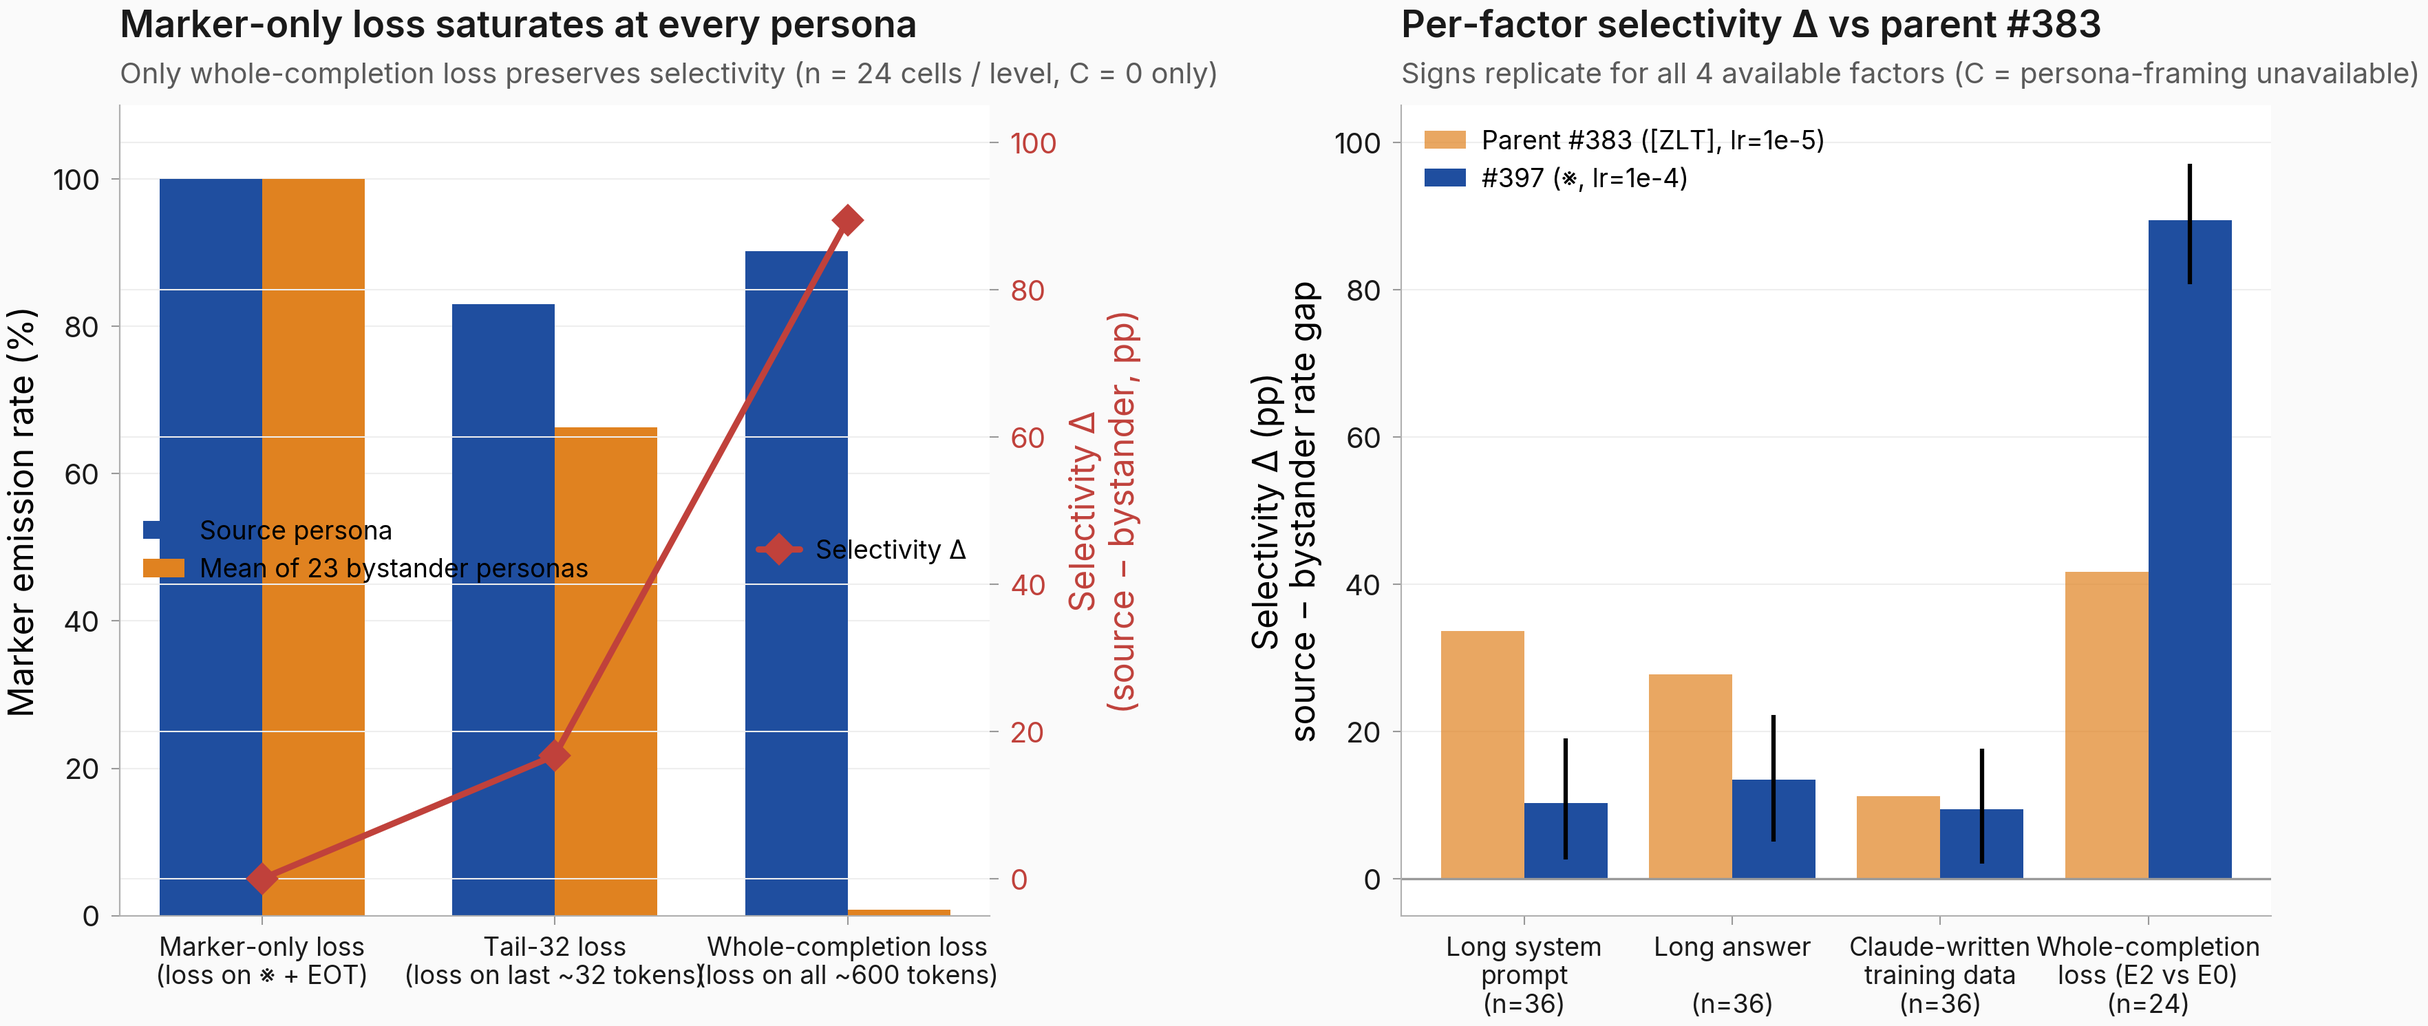
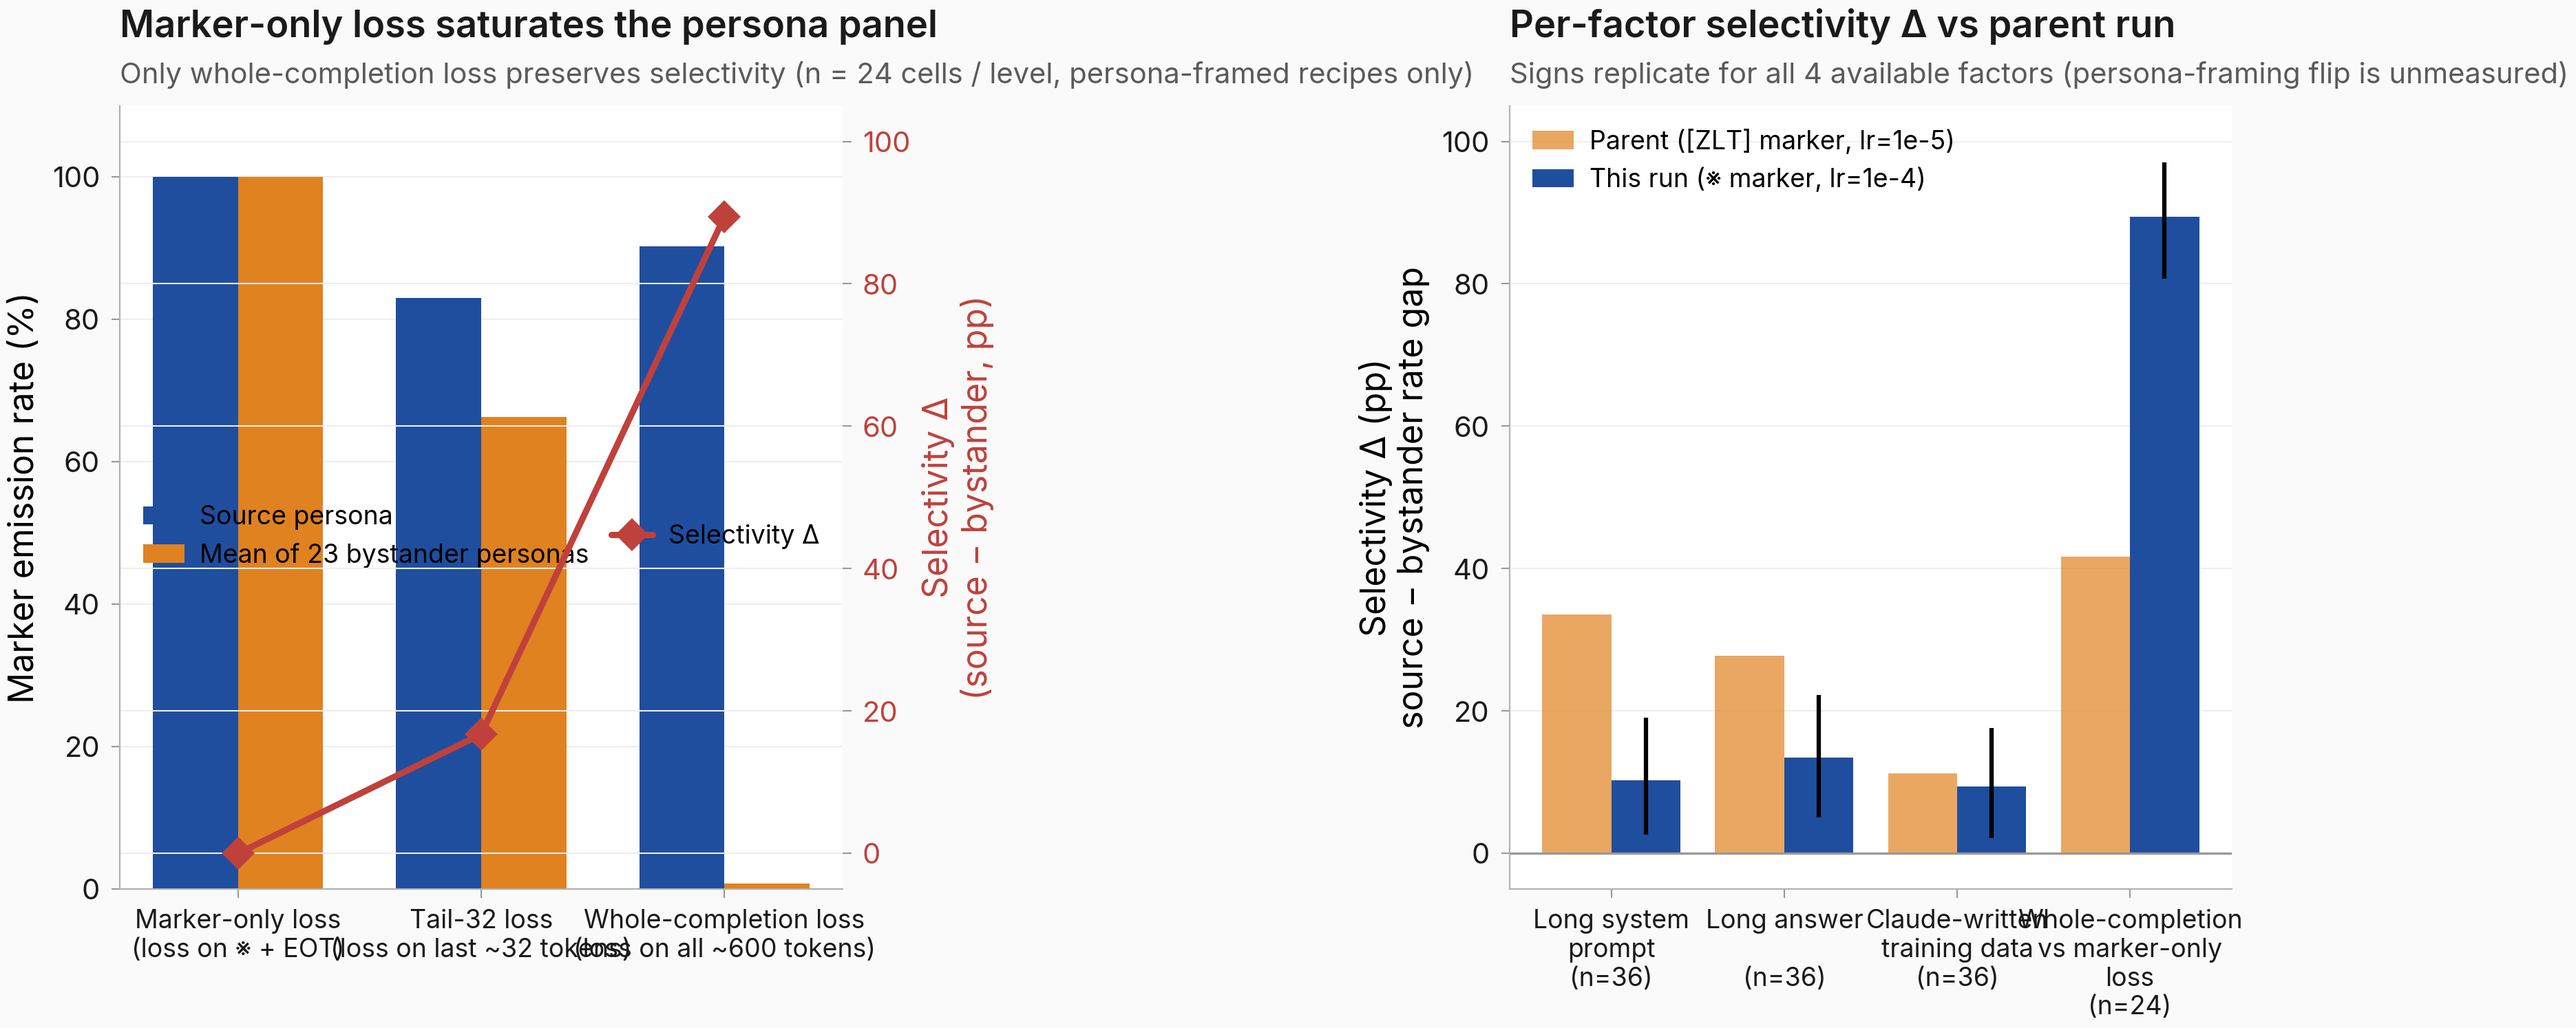
figures: issue #397 hero relabel — plain-English labels (V14 critic fix)
Replace project-internal codes with reader-facing English:
- Right panel x-tick 'Whole-completion loss (E2 vs E0)' → 'Whole-completion vs marker-only loss'
- Left panel subtitle 'C = 0 only' → 'persona-framed recipes only'
- Right panel subtitle 'C = persona-framing unavailable' → 'persona-framing flip is unmeasured'
- Left panel title 'every persona' → 'the persona panel'
- Right panel title removes '#383' / '#397' from chart, keeps in legend as 'Parent' / 'This run' with marker + lr in parentheses.

diff --git a/scripts/plot_issue397_hero.py b/scripts/plot_issue397_hero.py
@@ -157,7 +157,7 @@ def main():
         "A": "Long system\nprompt",
         "B": "Long answer\n",
         "D": "Claude-written\ntraining data",
-        "E": "Whole-completion\nloss (E2 vs E0)",
+        "E": "Whole-completion\nvs marker-only\nloss",
     }
     factor_data = {}
     for f in ("A", "B", "D", "E"):
@@ -212,8 +212,8 @@ def main():
     ax2.legend(loc="center right", bbox_to_anchor=(1.0, 0.45), fontsize=9)
     set_title_subtitle(
         ax,
-        "Marker-only loss saturates at every persona",
-        "Only whole-completion loss preserves selectivity (n = 24 cells / level, C = 0 only)",
+        "Marker-only loss saturates the persona panel",
+        "Only whole-completion loss preserves selectivity (n = 24 cells / level, persona-framed recipes only)",
     )
 
     # RIGHT PANEL — per-factor Δ vs #383
@@ -227,13 +227,20 @@ def main():
     old_vals = [factor_data[f]["383"] for f in fs]
     new_color = paper_palette_role("primary")
     old_color = paper_palette_role("baseline")
-    ax.bar(x - w / 2, old_vals, w, label="Parent #383 ([ZLT], lr=1e-5)", color=old_color, alpha=0.7)
+    ax.bar(
+        x - w / 2,
+        old_vals,
+        w,
+        label="Parent ([ZLT] marker, lr=1e-5)",
+        color=old_color,
+        alpha=0.7,
+    )
     ax.bar(
         x + w / 2,
         new_means,
         w,
         yerr=[new_errs_lo, new_errs_hi],
-        label="#397 (※, lr=1e-4)",
+        label="This run (※ marker, lr=1e-4)",
         color=new_color,
         capsize=4,
     )
@@ -249,8 +256,8 @@ def main():
     ax.set_ylim(-5, 105)
     set_title_subtitle(
         ax,
-        "Per-factor selectivity Δ vs parent #383",
-        "Signs replicate for all 4 available factors (C = persona-framing unavailable)",
+        "Per-factor selectivity Δ vs parent run",
+        "Signs replicate for all 4 available factors (persona-framing flip is unmeasured)",
     )
 
     plt.tight_layout()
